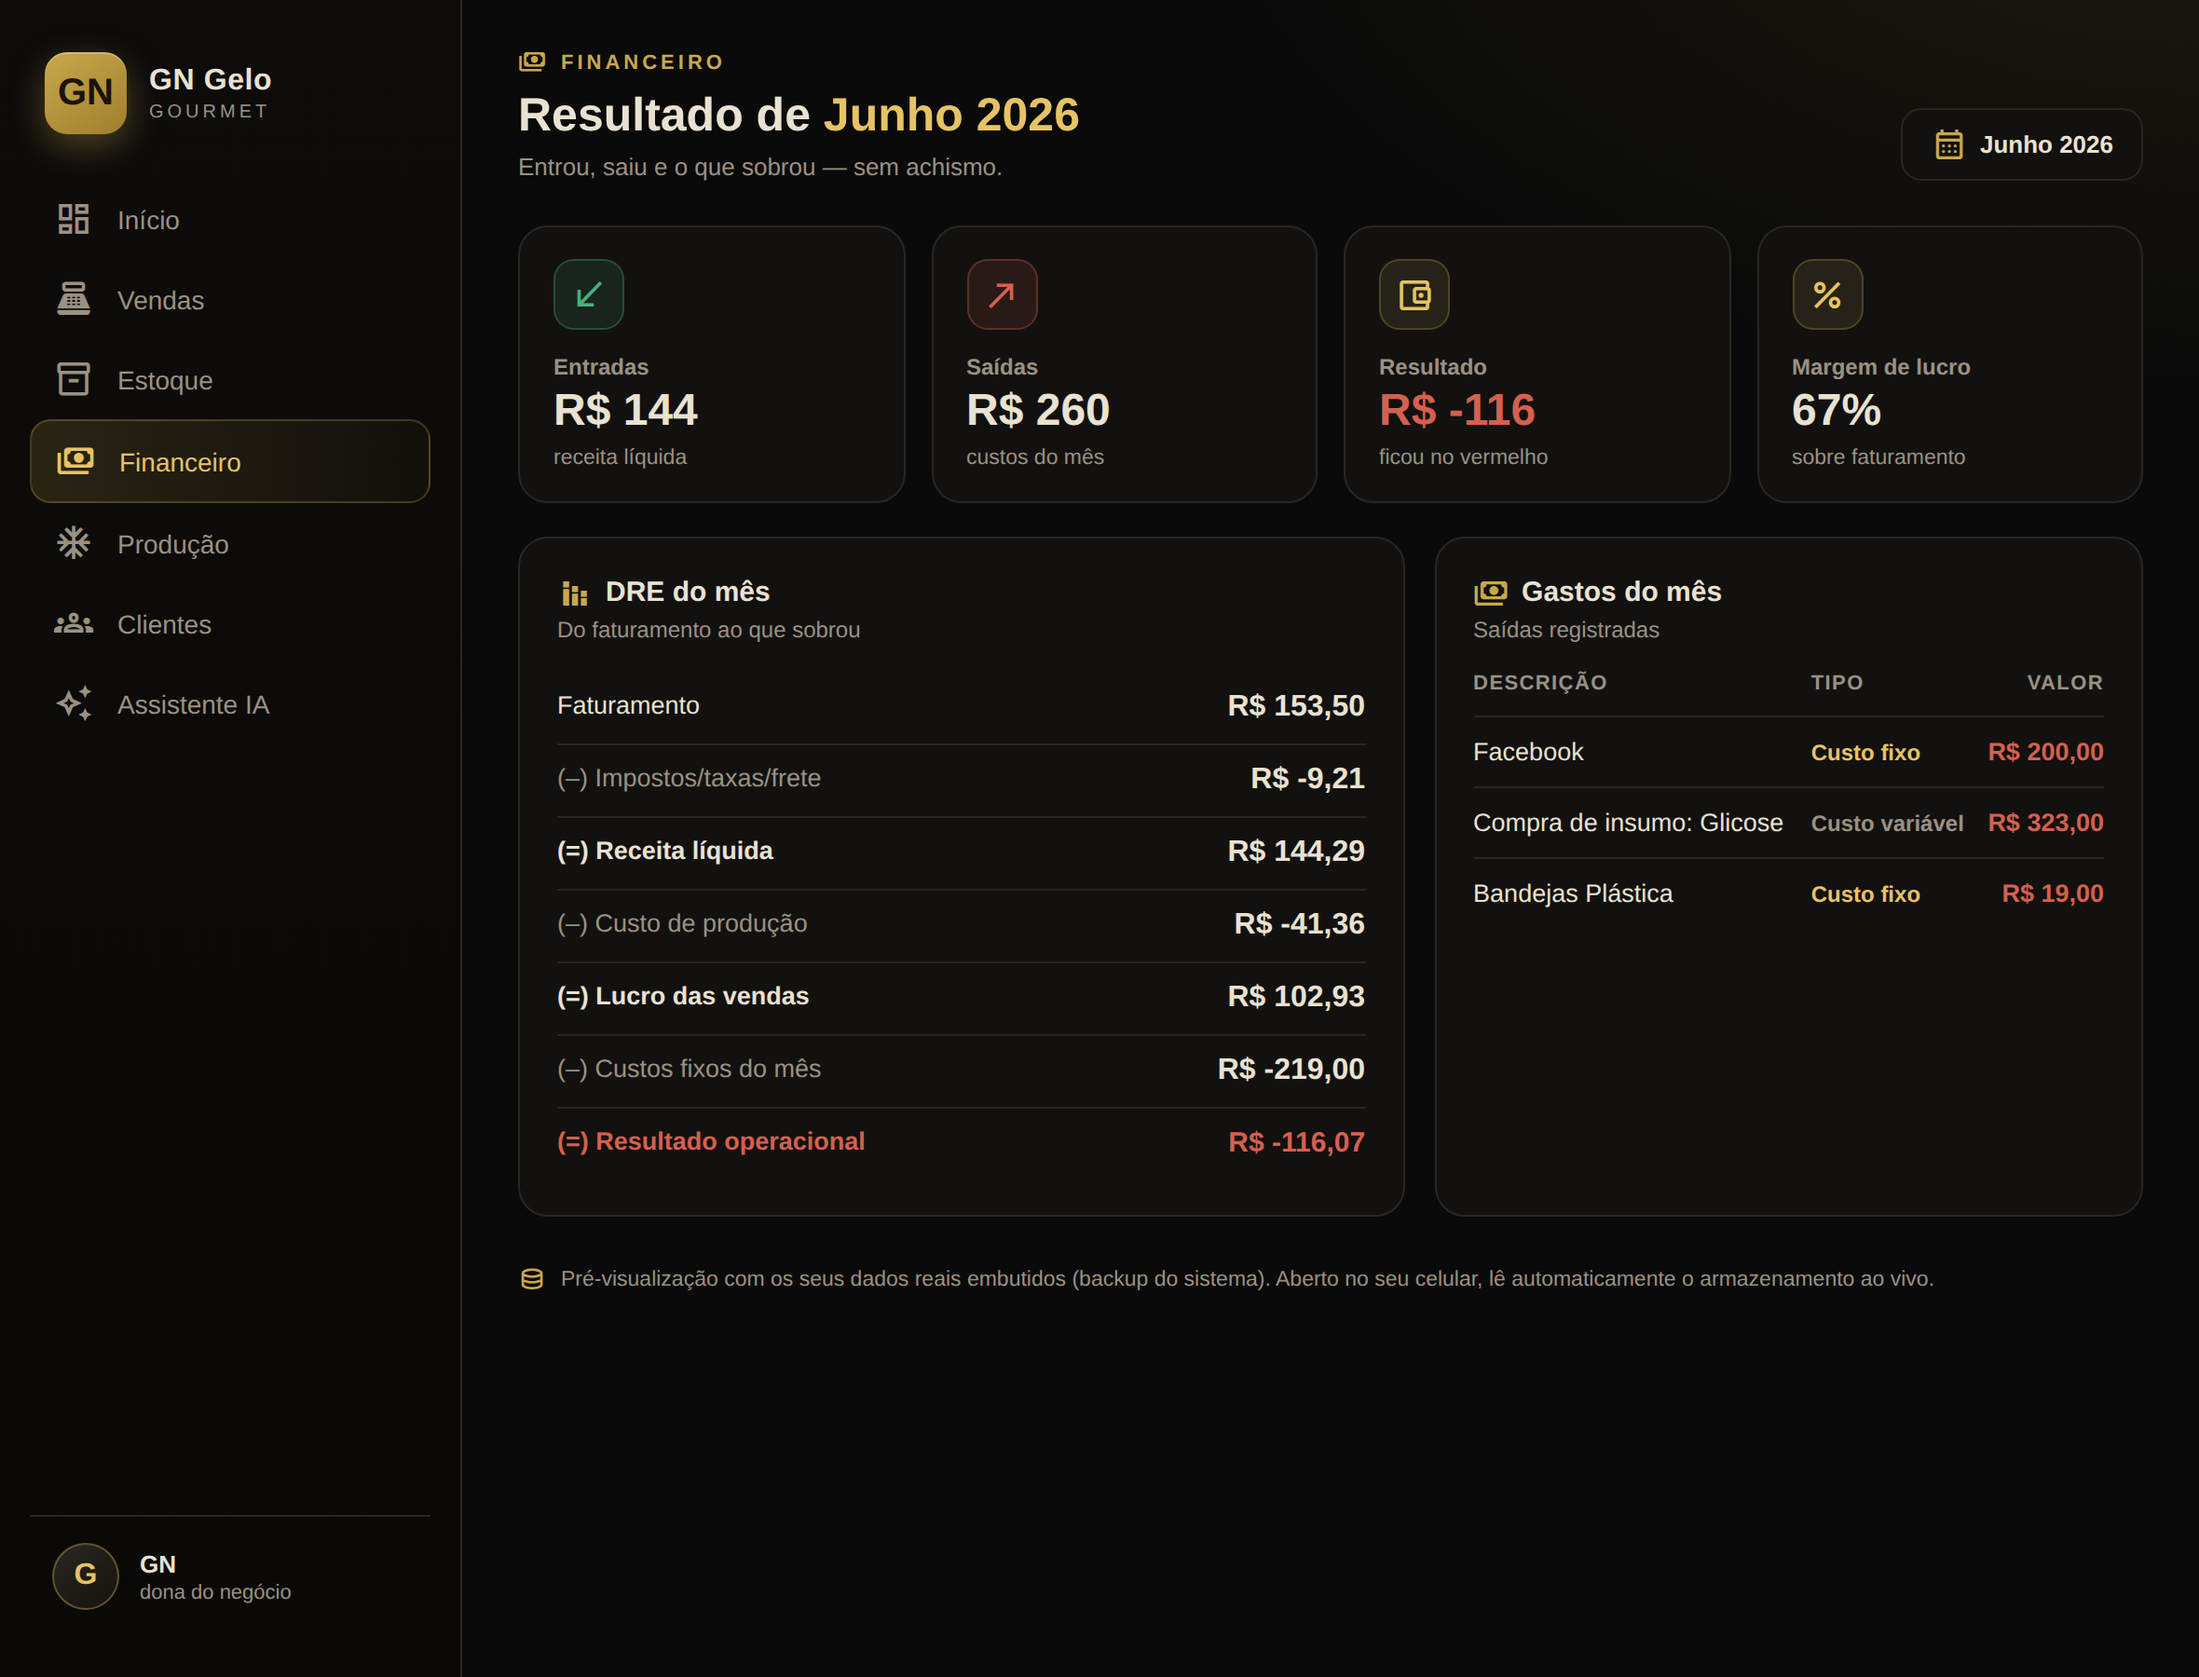
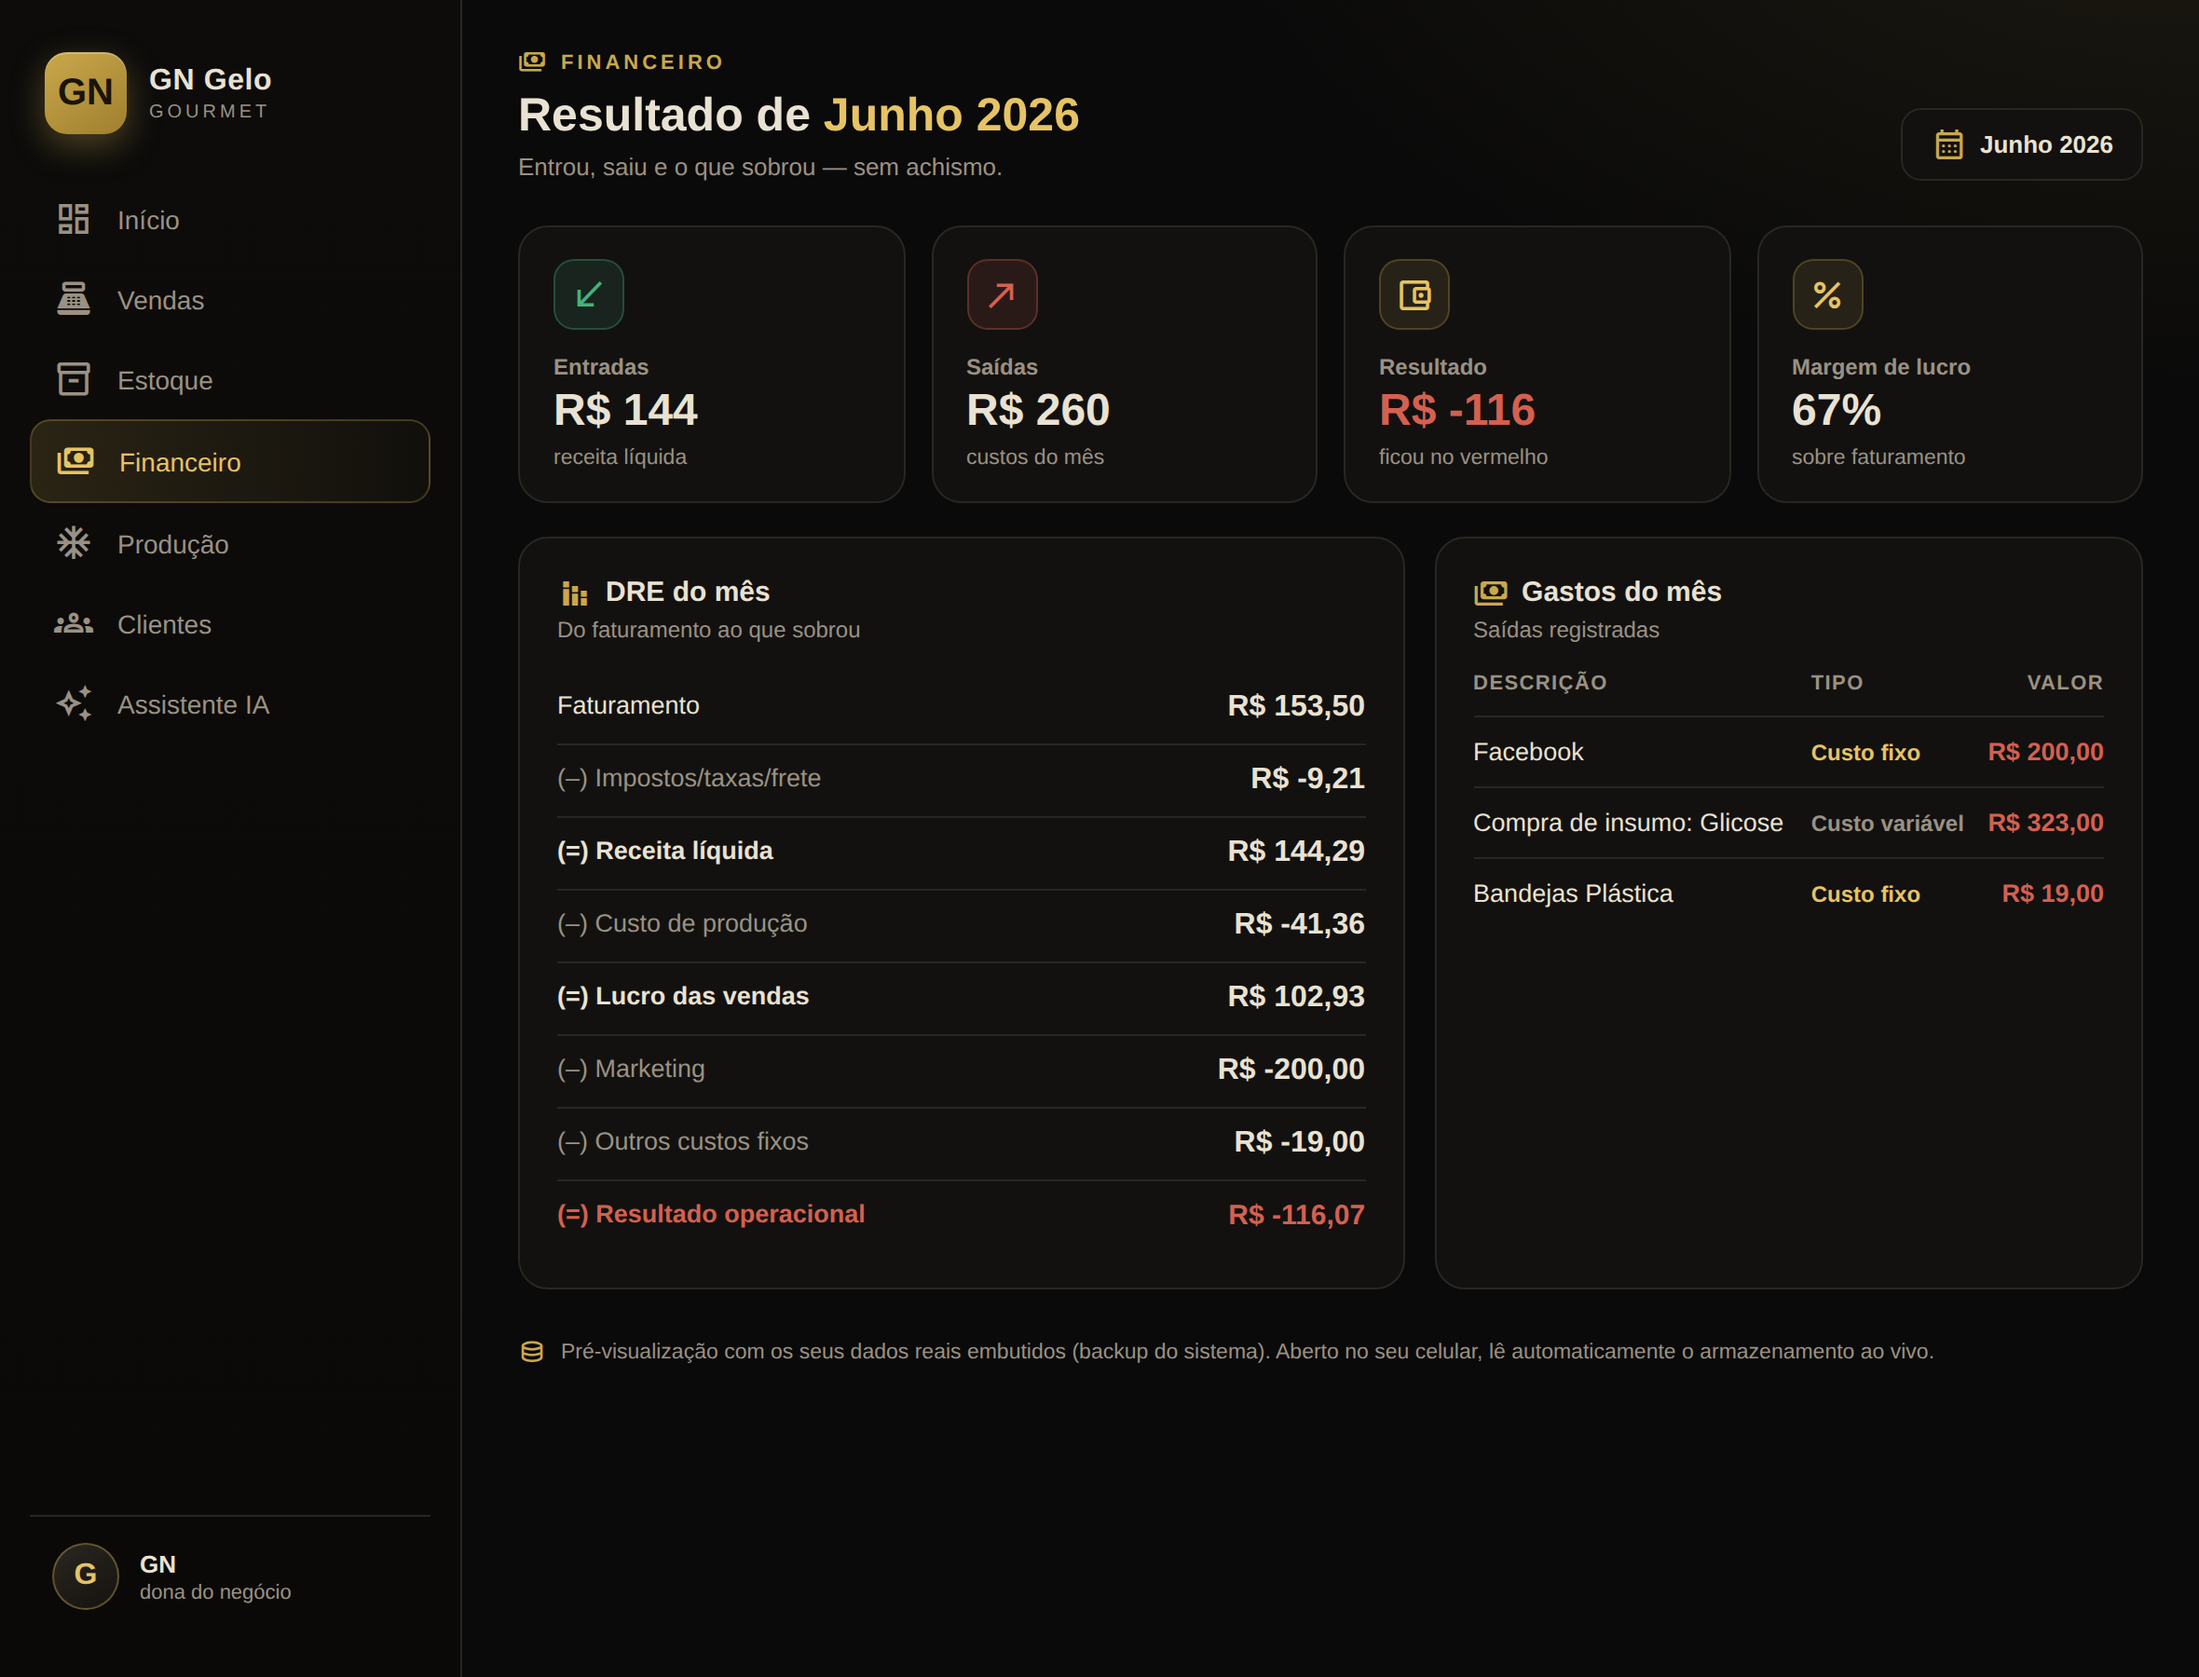
DRE: separa Marketing como linha propria (antes embutido em custos fixos)
Claude-Session: https://claude.ai/code/session_01RocrFdSgqpqjfRy7x3VDmm

Changed region(s): [[0.2165, 0.7156, 0.8661, 0.8089], [0.2475, 0.6222, 0.4021, 0.6844], [0.5568, 0.6222, 0.6186, 0.6844]]

diff --git a/preview-dashboard-premium.html b/preview-dashboard-premium.html
@@ -587,6 +587,8 @@ function renderFinanceiro(){
   const fat=vMes.reduce((a,v)=>a+(v.bruto||0),0), liq=vMes.reduce((a,v)=>a+(v.liq||0),0),
         luc=vMes.reduce((a,v)=>a+(v.lucro||0),0);
   const ded=fat-liq, cpv=liq-luc, fixos=gMes.filter(g=>g.tipo==="Custo fixo").reduce((a,g)=>a+(g.valor||0),0);
+  const mkt=gMes.filter(g=>g.tipo==="Custo fixo"&&(g.cat||"").toLowerCase()==="marketing").reduce((a,g)=>a+(g.valor||0),0);
+  const outrosFixos=fixos-mkt;
   const saidas=cpv+fixos, resultado=liq-saidas, marg=fat?Math.round(luc/fat*100):0;
   T("fi-mes",nome); T("fi-chip",nome);
   T("fi-in",R0(liq)); T("fi-out",R0(saidas));
@@ -595,7 +597,8 @@ function renderFinanceiro(){
   T("fi-res-f",resultado>=0?"sobrou no mês":"ficou no vermelho"); T("fi-marg",marg+"%");
   const dre=[["Faturamento",fat,0],["(–) Impostos/taxas/frete",-ded,1],["(=) Receita líquida",liq,2],
     ["(–) Custo de produção",-cpv,1],["(=) Lucro das vendas",luc,2],
-    ["(–) Custos fixos do mês",-fixos,1],["(=) Resultado operacional",resultado,3]];
+    ["(–) Marketing",-mkt,1],["(–) Outros custos fixos",-outrosFixos,1],
+    ["(=) Resultado operacional",resultado,3]];
   document.getElementById("fi-dre").innerHTML=dre.map(([lb,val,t])=>`
     <div style="display:flex;justify-content:space-between;padding:10px 0;border-top:${t===0?'none':'1px solid var(--line)'};
       ${t>=2?'font-weight:700;':''}${t===3?'font-size:15px;color:'+(val>=0?'var(--green)':'var(--red)')+';':''}">
